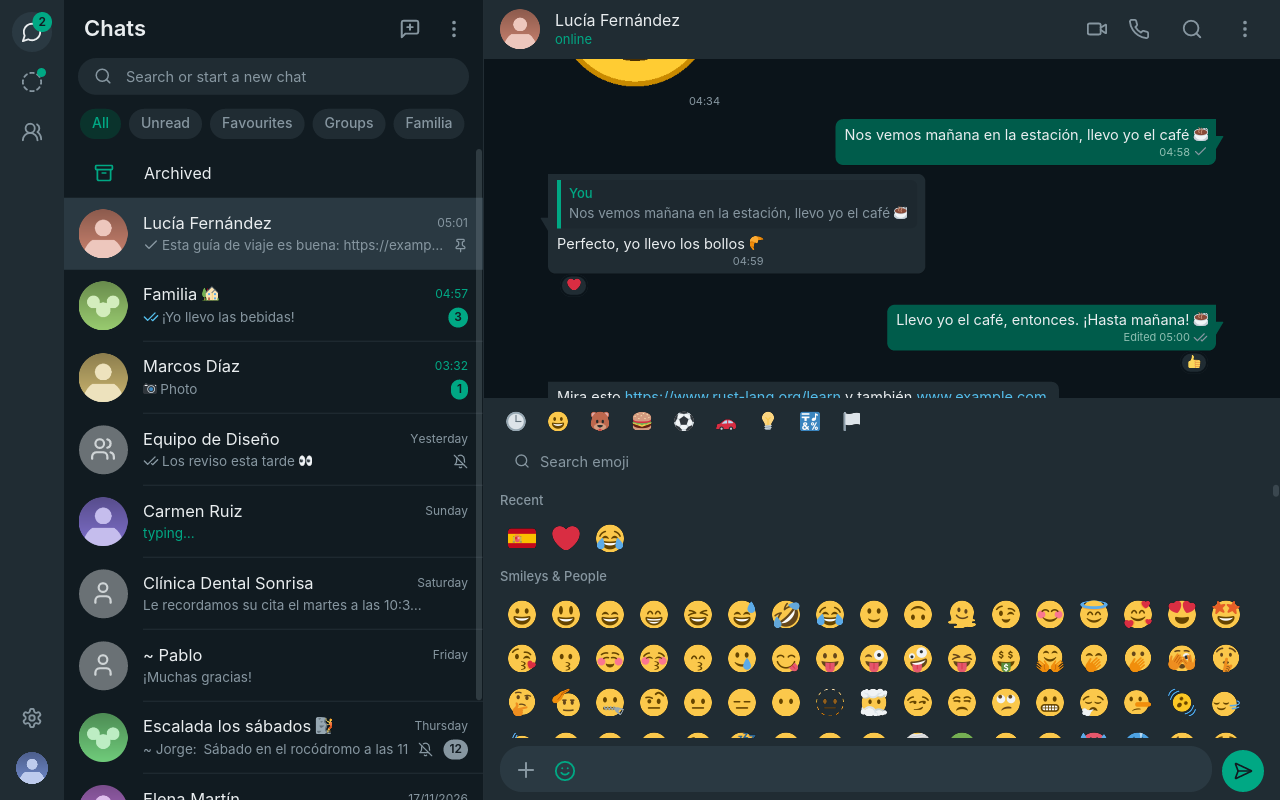
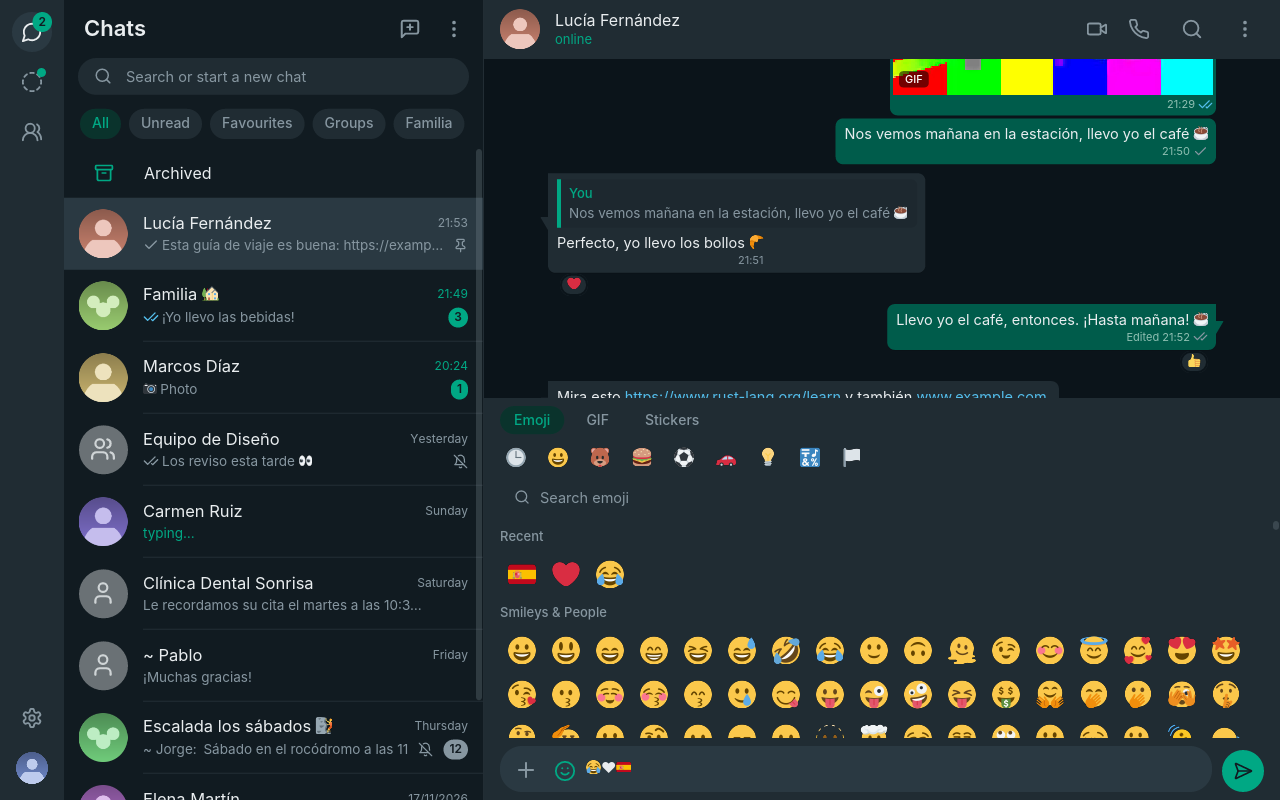
docs: stickers, GIFs and the GIF search decision
Claude-Session: https://claude.ai/code/session_011GZUAJAc8TohrBZJFGozGm

diff --git a/docs/protocol.md b/docs/protocol.md
@@ -88,8 +88,9 @@ directory and plays it in the in-app viewer (§6.1). "Open externally"
 crate, extension from an allowlist). `extendedTextMessage` with a `title`
 and an http(s) `matchedText` becomes a text message with the sender's link
 preview (title, description, inline thumbnail); previews are never fetched
-on our side, like the official clients. `stickerMessage` is downloaded (cap 2 MB, 1 Mpx), decoded to RGBA
-and drawn statically; animated stickers show their first frame. Locations,
+on our side, like the official clients. `stickerMessage` is downloaded (cap 2 MB, 1 Mpx) and drawn
+without a bubble; animated WebP stickers are decoded frame by frame and play inline (§2.5).
+`videoMessage` with `gifPlayback` is a GIF: it autoplays muted and looped in its bubble (§2.5). Locations,
 contacts and polls show an "unsupported" placeholder; key distribution
 messages are not bubbles. Replies come from `contextInfo` (`stanzaId`,
 `participant`, `quotedMessage`) and are rendered as a quote above the text; a
@@ -113,6 +114,8 @@ click jumps to the original, loading the cache around it when needed.
 | Groups in common | `groups().get_participating`, filtered by the contact's PN / LID | when the drawer opens |
 | Block / unblock | `blocking().block / unblock`, `blocking().is_blocked` | after a confirmation in the drawer |
 | Mute / unmute | `chat_actions().mute_chat` (indefinite) / `unmute_chat` | optimistic, reverted on failure; mute durations other than "always" are not offered yet |
+| Sticker | `upload(MediaType::Sticker)` + `stickerMessage` | §2.5 |
+| GIF | `upload(MediaType::Video)` + `videoMessage { gifPlayback: true, gifAttribution }` | §2.5 |
 
 Mentions: `contextInfo.mentionedJid` is kept per message (cache column
 `mentions`, schema 6). An "@<digits>" in the text is shown as the name of
@@ -232,6 +235,79 @@ The participant count (everyone but us) comes from the library's group
 metadata; until it is known no group message advances past one tick. Direct
 chats are unchanged.
 
+### 2.5 Stickers and GIFs
+
+**Receiving.** A sticker is downloaded like an image; an animated WebP
+(`isAnimated`, or the `VP8X` animation flag) is decoded in the download task
+into at most 150 frames / 8 MB at <= 200 px (`app::anim::STICKER`, extra
+frames merged so the loop keeps its length). A GIF (`gifPlayback`) of up to
+16 MB is downloaded to the GIF shelf and decoded by the player helper's
+*frames mode* (`ferrochat-player --frames <w>x<h> <frames> <bytes> <file>`:
+picture track only, as fast as it can, evenly spaced frames within the
+budget, timed `P` messages, then exit; `media::gifv`), at most two at a
+time, each tried once per run. Both become an `app::anim::Anim` drawn by the
+self-playing `ui::anim_image` widget (ported from Ferrocord): it asks for a
+redraw only when its own next frame is due, on a shared 60 Hz grid, only
+while on screen and only while the window is focused. The app is never
+ticked, so a hidden or unfocused window costs no CPU. Decoded animations
+share a 48 MB LRU (`App::anims`). Clicking a GIF opens it in the video
+viewer.
+
+**Sending stickers.** The Stickers tab lists favourites and recent stickers
+(sent, and received ones once displayed; 48 kept). `SendSticker` re-uploads
+the WebP from the shelf with `MediaType::Sticker` and sends a
+`stickerMessage` (mimetype `image/webp`, size, `isAnimated`,
+`stickerSentTs`) through `send_message_with_options` like any media; no
+stanza is built by hand. "Create" turns a picture (PNG / JPEG / WebP / first
+frame of a GIF) into a 512x512 WebP: fitted, centred on transparency,
+lossless (`image` has no lossy WebP encoder); results above 300 kB are
+re-encoded with fewer colour levels, above 1 MB refused. A preview with
+"Send sticker" / "Cancel" comes first.
+
+**Favourites are local.** The phone's favourite stickers are app-state
+`favoriteSticker` mutations (`StickerAction`, collection `regular_low`).
+`whatsapp-rust` 0.7 drops them in `dispatch_app_state_mutation` (no event,
+no read API), so Ferrochat cannot show the phone's favourites, and it never
+writes that collection either (the "never overwrite the phone's app state"
+rule). Favourites made here (right-click a tile, or the message menu) live
+only in the cache (`favourite_stickers`).
+
+**Sending GIFs.** A GIF is an H.264 MP4 sent as `videoMessage` with
+`gifPlayback = true`, `gifAttribution` (`GIPHY` for search results, `NONE`
+otherwise), size, duration and a 96 px JPEG thumbnail, uploaded as
+`MediaType::Video`. Before sending, the helper probes the file (H.264 or a
+named "cannot be sent" message, size, duration, poster) and decodes the
+bubble animation. Sources:
+
+* recent GIFs (sent or received, 40 kept);
+* "Send a GIF from a file": a `.mp4` (<= 16 MB, H.264) as is; a `.gif` is
+  converted by the helper (`ferrochat-player --gif-to-mp4 <in> <out>`: the
+  `image` crate composites the frames, scaled to <= 480 px with even sides,
+  flattened on white, OpenH264 Constrained Baseline, one sample per GIF
+  frame with the GIF's own delays, `mp4` crate writer). The main binary
+  still links no codec;
+* GIF search (below).
+
+**GIF search: the user's own GIPHY key.** WhatsApp Desktop searches Tenor
+with WhatsApp's API key. Ferrochat must not borrow that key or fake
+WhatsApp's origin. Options considered: Tenor (needs a Google Cloud project
+key), GIPHY (free self-service keys at developers.giphy.com, MP4 and
+animated WebP renditions in every result) and Klipy (newer, smaller
+ecosystem). GIPHY is used: the user pastes a key in Settings > GIFs; it is
+stored in the OS keyring (`auth::secrets`, account `giphy-api-key`) and only
+sent to `api.giphy.com` (query parameter, so URLs are logged without their
+query). Without a key the GIF tab shows a one-line setup note; recent GIFs
+and GIF files still work. Requests run on detached threads with `ureq`
+(already in the tree), no redirects, GIPHY hosts only (`net::giphy`):
+search (`/v1/gifs/search`, 24 results, `rating=pg-13`) after a 450 ms
+pause in typing, tiles from `fixed_width_small.webp` (animated, <= 1 MB,
+decoded to <= 60 frames), and on click the `original` MP4 (or `fixed_width`
+when the original is over 15 MB). The tab says "Powered by GIPHY". Tiles
+live only while the drawer is open. A provider is one parser
+(`parse_search`) plus a host list, so Tenor or Klipy can be added the same
+way. `FERRO_GIPHY_API=http://127.0.0.1:<port>/...` points search at a
+loopback test server; `--mock` answers searches in-process.
+
 ## 3. What lands on disk
 
 | Path | Content | Protection |
@@ -249,6 +325,10 @@ chats are unchanged.
 | `~/Downloads/<name>` | Documents the user opened; photos saved or opened externally from the image viewer | Only on explicit click. |
 | (cache column `messages.thumb` of videos) | A poster frame (JPEG, <= 480 px) decoded by the player helper for videos (<= 16 MB) that arrived without an inline thumbnail; the video itself lands in the `videos/` cache above | Same file as the cache |
 | (cache key `recent_emoji`) | The emoji picker's recent emoji | Same file as the cache |
+| `$XDG_CACHE_HOME/ferrochat/stickers/<sha256>.webp` | Recent and favourite stickers (decrypted), for the Stickers tab | Directory 0700; files not in the lists are removed, 64 MB cap |
+| `$XDG_CACHE_HOME/ferrochat/gifs/<sha256>.mp4` + `.jpg` | Recent GIFs (decrypted MP4 + poster), for the GIF tab and inline playback | Directory 0700; files not in the list are removed, 200 MB cap. `--mock` uses `$TMPDIR/ferrochat-mock-shelf-<pid>`, removed on exit |
+| (cache keys `recent_stickers`, `favourite_stickers`, `recent_gifs`) | The picker's lists (file hash, size, duration) | Same file as the cache |
+| OS keyring, account `giphy-api-key` | The user's own GIPHY API key (optional) | Keyring only; never logged |
 
 The data directory is created with mode 0700 and every database file
 (including `-wal` / `-shm`) is set to 0600. Downloads are capped at 100 MB

diff --git a/LESSONS.md b/LESSONS.md
@@ -303,3 +303,36 @@ next change.
   once, never per event.
 * **No devices in tests.** Audio threads and the ringtone are skipped in
   `--mock`; the fake client stands in for the media engine.
+
+## Stickers and GIFs
+
+* **Check what the library dispatches before promising sync.** The phone's
+  favourite stickers are app-state `favoriteSticker` mutations, and the
+  schema is in `wacore-appstate`, but `whatsapp-rust` 0.7's
+  `dispatch_app_state_mutation` silently drops them (no event, no read API).
+  Favourites are therefore local, and nothing is written to that collection.
+* **Port the self-playing animation widget, not a tick.** Ferrocord's
+  `anim_image` asks for `request_redraw_at` only for its own next frame, on a
+  shared 60 Hz grid, only while visible: animated stickers and GIFs cost
+  nothing while the window is unfocused or closed, and `view` never runs
+  per frame.
+* **A GIF is an MP4, so decode it where the codecs are.** The helper already
+  had OpenH264 + the `mp4` crate; a `--frames` mode (decode as fast as
+  possible, keep evenly spaced frames within a byte budget, exit) and a
+  `--gif-to-mp4` mode (OpenH264's encoder is in the same static library,
+  the `mp4` crate has a writer) kept the main binary codec-free. OpenH264's
+  encoder rejects `UsageType::CameraVideoNonRealTime` ("Invalid usage type
+  = 2"); skipped frames must be off or the sample table gets holes.
+* **`image` cannot write animated WebP**, so mock animated stickers wrap
+  per-frame lossless VP8L bitstreams in `VP8X` / `ANIM` / `ANMF` chunks by
+  hand (`mock::animated_webp`). It only encodes lossless WebP: stickers made
+  from photos are posterized until they are a reasonable size.
+* **Hash keys tie the views together.** Using the hex SHA-256 of the file as
+  the shelf key makes it equal to the received copy's `cache_key`, so a sent
+  sticker's bubble shows at once and a sticker seen in a chat is the same
+  picker entry. The mock and fake clients now use real hashes too.
+* **Don't borrow another app's API key.** WhatsApp's GIF search uses its own
+  Tenor key; the honest option is the user's own GIPHY key in the keyring,
+  with recent GIFs and GIF files working without one.
+* The shared build host ran out of disk mid-build: `rm -rf
+  target/debug/incremental` and `CARGO_INCREMENTAL=0` got it going again.

diff --git a/CLAUDE.md b/CLAUDE.md
@@ -9,7 +9,7 @@ the `net::WaClient` trait. Unofficial: third-party clients can get accounts bann
 - `cargo build` / `cargo build --release` (use `CARGO_BUILD_JOBS=2` on shared hosts)
 - `cargo fmt --check && cargo clippy --all-targets -- -D warnings && cargo test`
 - `cargo run -- --mock` (fake protocol + mock data, no network, no disk writes)
-- Screenshots: `ICED_BACKEND=tiny-skia xvfb-run -a -s "-screen 0 1280x800x24" ./target/debug/ferrochat --screenshot <login|chats|chat|reply|reactions|chat-search|list-search|delete|settings|paste|update-banner|update-settings|emoji|viewer|info|group-info> docs/screenshots/<name>.png`
+- Screenshots: `ICED_BACKEND=tiny-skia xvfb-run -a -s "-screen 0 1280x800x24" ./target/debug/ferrochat --screenshot <login|chats|chat|reply|reactions|chat-search|list-search|delete|settings|paste|update-banner|update-settings|emoji|stickers|gifs|viewer|info|group-info> docs/screenshots/<name>.png`
 - Tray test needs a session bus: `dbus-run-session -- cargo test` (the SNI test is skipped without one).
 - Regenerate fixtures: `cargo test --test gen_fixtures -- --ignored`
 
@@ -139,3 +139,10 @@ Wayland `app_id` / desktop entry id: `dev.ferro.ferrochat` (`packaging/`).
   which needs the stored offer (`net::call::CallBook`). State machine: `call::Calls` (pure,
   tested); app glue `app/call.rs`. Video calls are NOT implemented: the video button must keep
   saying so. `--mock`/tests open no audio device. Each call is logged once (`call-<id>` bubble).
+- Stickers / GIFs (`app/picker.rs`, protocol §2.5): animations are `app::anim::Anim`s drawn by
+  `ui::anim_image` (self-playing, redraws only its own due frames, only visible + focused): never tick
+  the app for them. GIF bubbles are decoded by the helper's `--frames` mode and `.gif` files converted by
+  `--gif-to-mp4` (codecs stay in the helper). Shelf keys are hex SHA-256 = `MediaRef::cache_key`. Drawer
+  tiles are freed on close (`release_picker`). Sticker favourites are LOCAL: whatsapp-rust 0.7 drops the
+  phone's `favoriteSticker` mutations; never write that app state. GIF search = the user's own GIPHY key
+  (keyring `giphy-api-key`), never WhatsApp's Tenor key; network on detached threads (`media::detached`).

diff --git a/docs/architecture.md b/docs/architecture.md
@@ -254,6 +254,7 @@ widgets or `ui`:
 | `src/app/actions.rs`, `src/app/live.rs` | User actions (reply, react, edit, delete, search, jump, avatars, group receipts) and the pure typing / presence state machines. |
 | `src/app/lists.rs`, `src/app/linkify.rs`, `src/app/input.rs` | Archive / pin / favourites / custom lists, link and mention detection (pure, tested), pointer position for context menus. |
 | `src/app/video.rs`, `src/media/video.rs`, `src/media/video_proto.rs`, `src/bin/ferrochat-player/` | In-app video: viewer state, the helper process wrapper, the wire format and the helper (OpenH264 + symphonia + rodio, `video` feature). |
+| `src/app/picker.rs`, `src/app/anim.rs`, `src/ui/anim_image.rs`, `src/ui/emoji_picker.rs`, `src/media/sticker.rs`, `src/media/gifv.rs`, `src/net/giphy.rs` | Stickers and GIFs (protocol §2.5): the drawer's Emoji / GIF / Stickers tabs, the bounded sticker / GIF shelf, decoded animations played by the self-playing `anim_image` widget (no app tick), the helper's frames and GIF -> MP4 modes, GIPHY search with the user's key. |
 | `src/notify.rs` | Desktop notifications (`notify-rust`), opening files with `xdg-open`, file-name sanitising. |
 
 `src/net/` contains `types.rs` (domain types), `convert.rs` (pure protobuf ↔
@@ -356,7 +357,7 @@ add first.
                                                 image / video / sticker / document / voice) with quote,
                                                 reaction badge and hover actions, floating reaction
                                                 picker and message menu, in-chat search bar, reply /
-                                                edit bar, emoji panel, composer (+, 😊, text, mic ↔
+                                                edit bar, emoji / GIF / sticker drawer, composer (+, 😊, text, mic ↔
                                                 send), image viewer, delete / reactions dialogs
 ```
 
